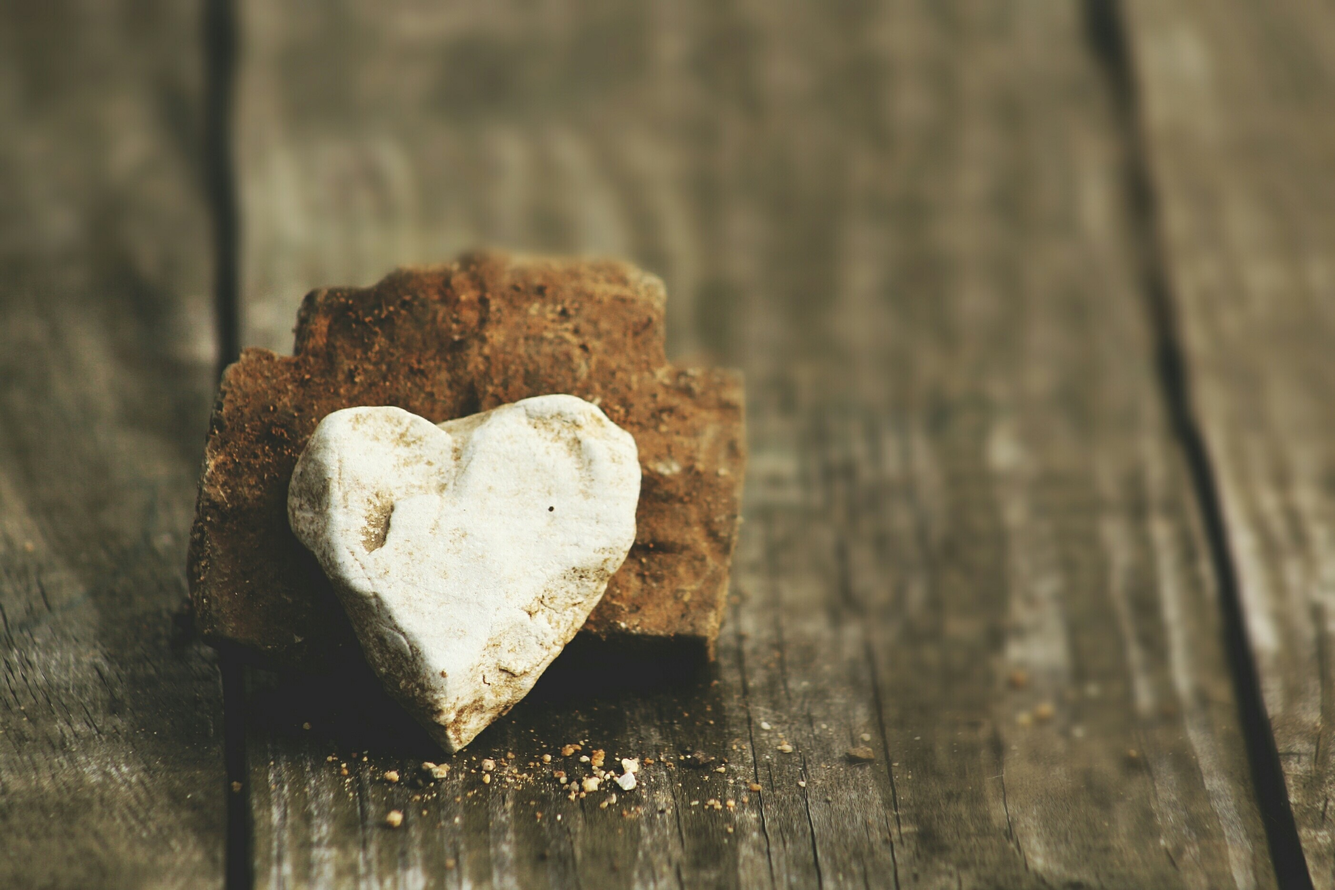
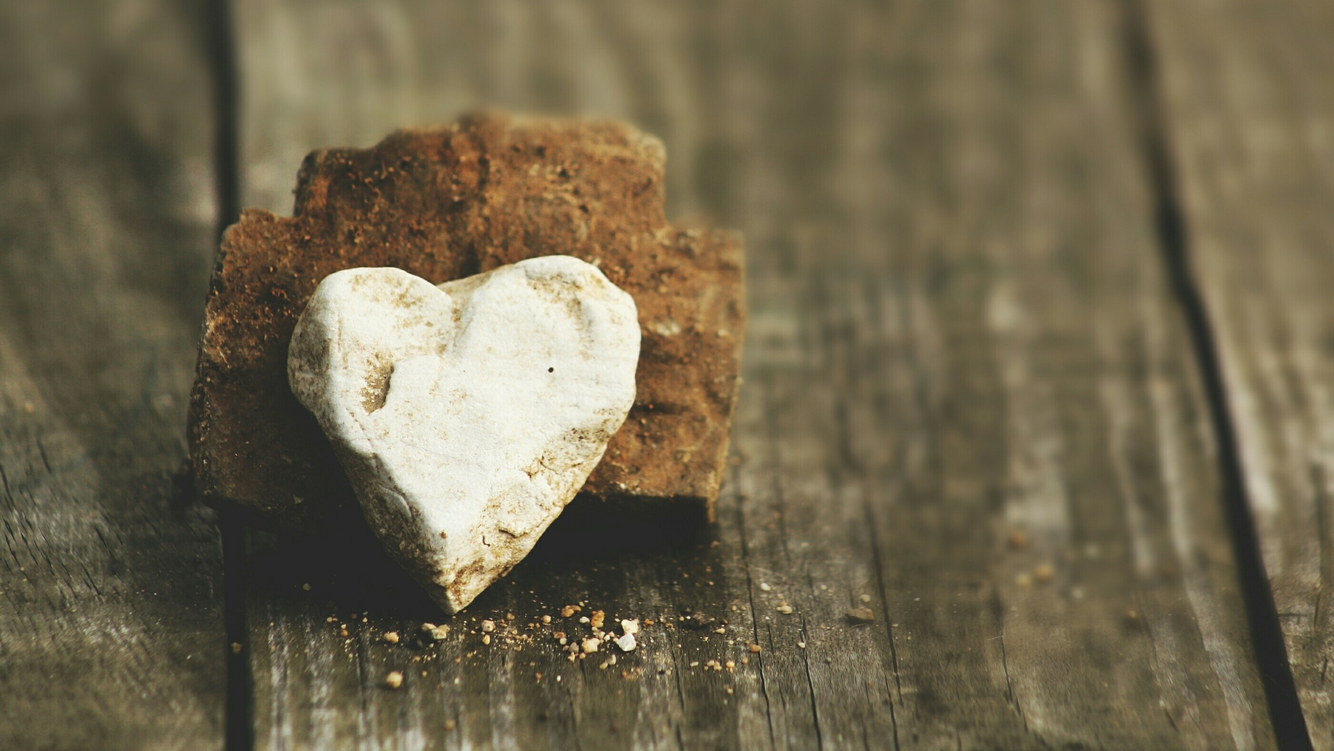
tune

diff --git a/about.html b/about.html
@@ -185,7 +185,7 @@
     <!-- About Section End -->
 
     <!-- Call To Action Section Begin -->
-    <section class="callto spad set-bg" data-setbg="img/call-bg.jpg">
+    <section class="callto spad set-bg" data-setbg="img/call-bg1.jpg">
       <div class="container">
         <div class="row">
           <div class="col-lg-12">
